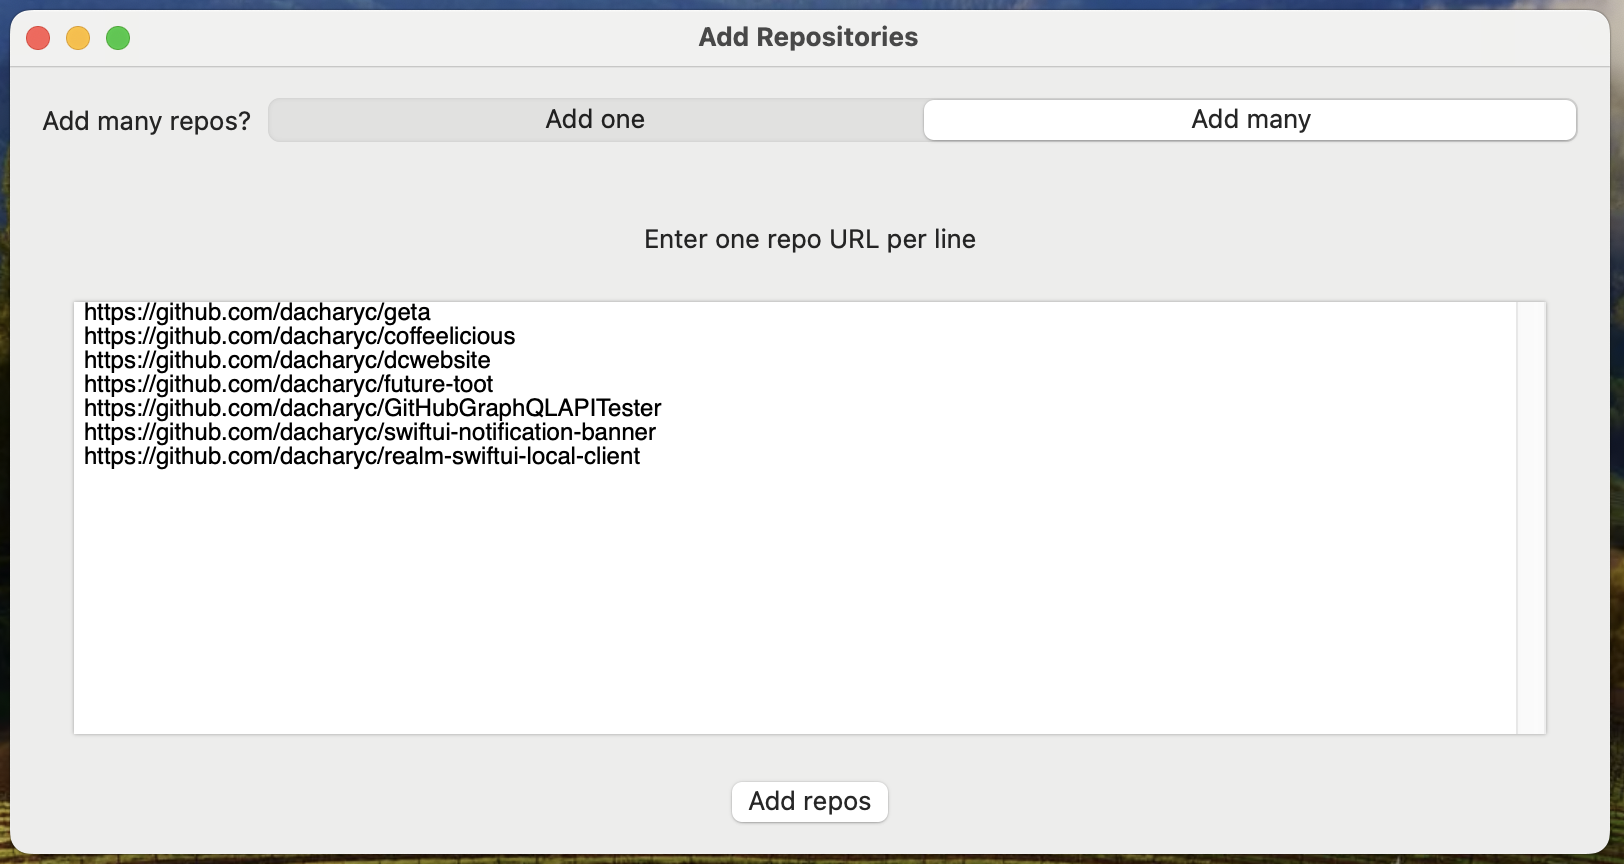
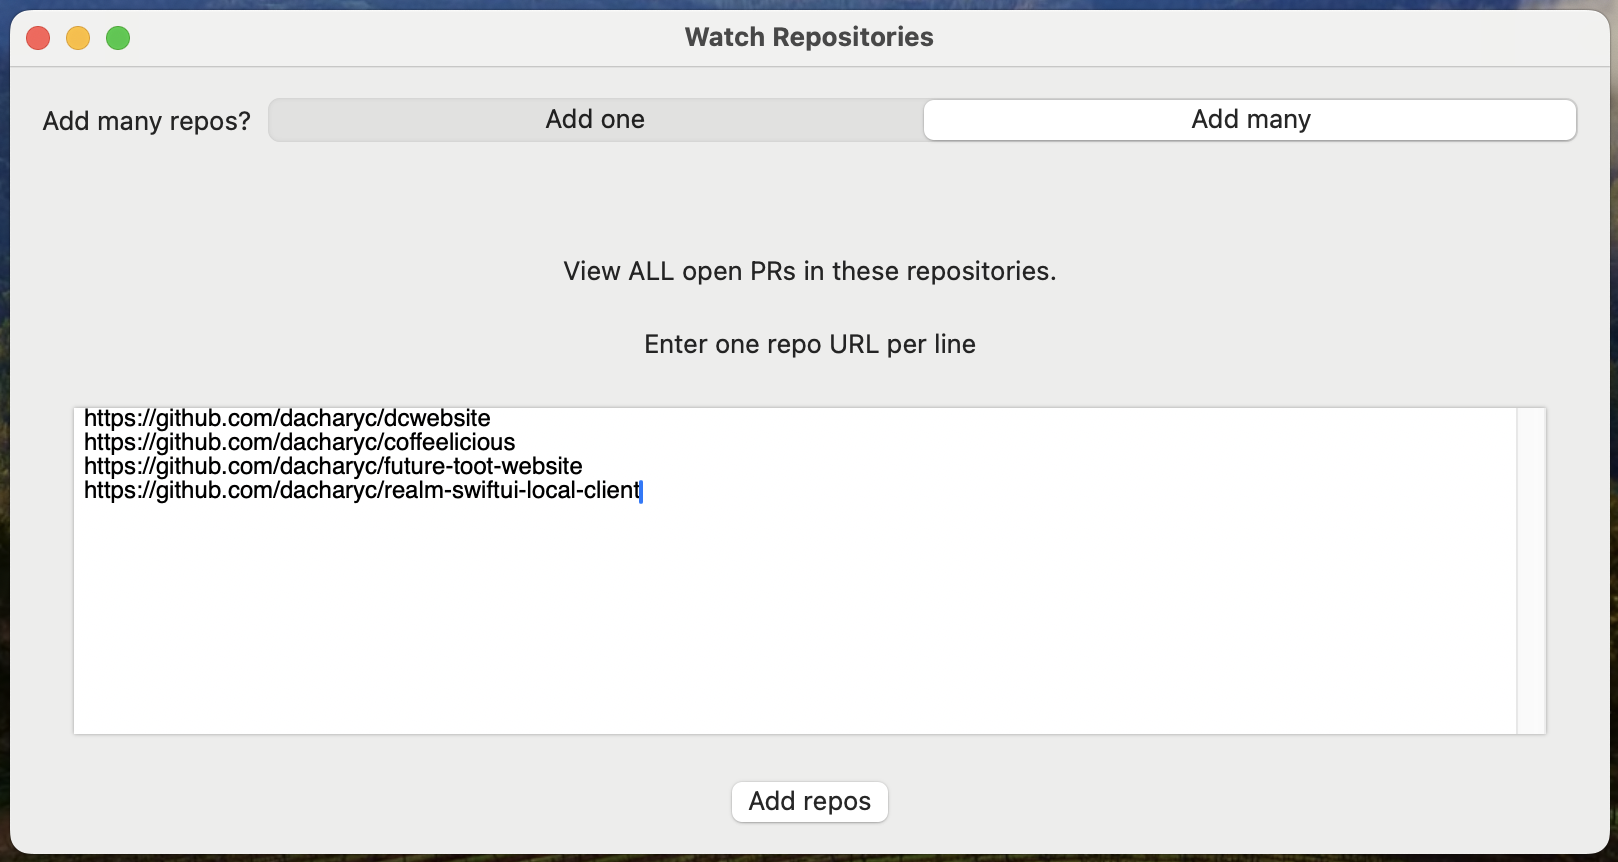
Reframe 'Add Repo' as 'Watch Repo'

diff --git a/content/en/docs/repositories/add-repository.md b/content/en/docs/repositories/add-repository.md
@@ -1,48 +1,64 @@
 ---
-title: "Add Repositories"
+title: "Watch Repositories"
 date: 2023-06-04
 weight: 2
 description: >
-  Add repositories to watch for new and updated PRs.
+  Watch repositories for new and updated PRs.
 ---
 
-You can add a repository to PR Focus using the **Add Repositories** option in the **Repositories** menu.
+When you watch a repository, PR Focus checks GitHub for all of the open pull requests that are currently in that repository. While the app is open, PR Focus automatically checks the repository for:
 
-![Screenshot showing the "Add Repositories" menu option](/images/add-repositories.png)
+- Updates to existing PRs
+- New PRs opened in the repository
 
-This opens a window where you can add one or many repositories.
+New PRs go into your **Inbox**. From there, you can decide whether to **Watch** or **Ignore** the PR. For more information, refer to [Incoming PRs]({{< ref "docs/pull-requests/incoming-pr.md" >}}).
 
-## Add One Repository
+If you are an assignee, a reviewer, or if the PR was made by you, the incoming PR goes directly into the relevant list of PRs, bypassing your **Inbox**. For more details about how PR Focus determines these states, refer to [View a Repository]({{< ref "docs/repositories/view-repository.md#the-repository-dashboard" >}}).
 
-By default, when you open the **Add Repositories** window, you see the option to add a single repository.
+When a pull request gets updates, the pull request moves to the top of its respective list. The background color of the PR Summary changes to indicate there are updates. If the updates are to status checks, commits, comments, or reviews, the relevant column in the PR Summary is bolded. Clicking into the PR details tells you what information is new. For more information about PR Summaries, refer to [PR Summary]({{< ref "docs/repositories/view-repository.md#pr-summary" >}}). For more information about the information available when viewing PR details, refer to [View PR Details]({{< ref "docs/pull-requests/view-pr-details.md" >}}).
+
+If you don't need to know about *every* new pull request in a repository, you can watch individual pull requests instead of watching the repo. For details, refer to [Watch an Individual PR]({{< ref "docs/pull-requests/add-pr.md" >}}).
+
+## How to Watch a Repository
+
+To watch repositories in PR Focus:
+
+1. Go to the **Repositories** menu in the menu bar
+2. Select **Watch Repositories**
+
+![Screenshot showing the "Watch Repositories" menu option](/images/add-repositories.png)
+
+### Add One Repository
+
+By default, when you open the **Watch Repositories** window, you see the option to add a single repository.
 
 Enter a GitHub URL for the repository you want to add, similar to `https://github.com/dacharyc/prfocus-website`.
 
 You can also select a color for the repository pill to help visually distinguish the repository in a list.
 
-![Screenshot showing the "Add one" option in the "Add Repository" pane, with a text field to enter a URL, a picker to select a color and a save buttons](/images/add-repo-info.png)
+![Screenshot showing the "Add one" option in the "Watch Repository" pane, with a text field to enter a URL, a picker to select a color and a save buttons](/images/add-repo-info.png)
 
 Press the **Add Repository** button to add the repo to the list of repositories you're watching.
 
 The repository appears in the sidebar. PR Focus enqueues a job to automatically fetch the open pull requests in the repository from GitHub. Once any running jobs are complete, PR Focus gets the open PRs for the new repository.
 
-If you view **Manage Repositories** option in the **Repositories** menu, you'll see the repository in your list of watched repositories. From here, you can click a link to view the repository in GitHub.
+If you go to the **Manage Repositories** option in the **Repositories** menu, you'll see the repository in your list of watched repositories. From here, you can click a link to view the repository in GitHub.
 
-![Screenshot showing the Manage Repositories window with links to view repositories on GitHub, and buttons to update settings or delete the repositories](/images/manage-repositories.png)
+![Screenshot showing the Manage Repositories window with links to view repositories on GitHub, and buttons to update settings or delete the repositories](/images/manage-repositories-trimmed.png)
 
-## Add Many Repositories
+### Add Many Repositories
 
 If you want to quickly onboard a team to PR Focus, you can create a list of repository URLs to add to the app. 
 
- When you open the **Add Repositories** window, you'll see the option to **Add many**. 
+When you open the **Watch Repositories** window, you'll see the option to **Add many**. 
 
-![Screenshot showing the Add Repo sheet, with `Add Many` selected and a text box to enter many repository URLs](/images/add-many-repositories.png)
+![Screenshot showing the Watch Repository pane, with `Add Many` selected and a text box to enter many repository URLs](/images/add-many-repositories.png)
 
 When you select this option, you can enter a list of repository URLs separated by newlines. PR Focus parses this list and adds all of the repositories to the app. 
 
-When adding many repositories, you cannot customize the color of the labels. PR Focus starts at the top of the color list and assigns a different color to each repository in the list. If you enter more repositories than colors, PR Focus starts assigning label colors again at the beginning of the list.
+When adding many repositories, you cannot customize the color of the labels. PR Focus assigns a color at random to each repository in the list.
 
-You can manually customize these labels later if you [configure repository settings]({{< ref "docs/repositories/manage-repository.md" >}}).
+You can manually customize these labels later if you [customize repository settings]({{< ref "docs/repositories/manage-repository.md" >}}).
 
 ## What's Next
 

diff --git a/content/en/docs/pull-requests/add-pr.md b/content/en/docs/pull-requests/add-pr.md
@@ -1,0 +1,8 @@
+---
+title: "Solo PRs"
+date: 2024-07-02
+weight: 4
+description: >
+  Watch individual pull requests for updates.
+---
+
